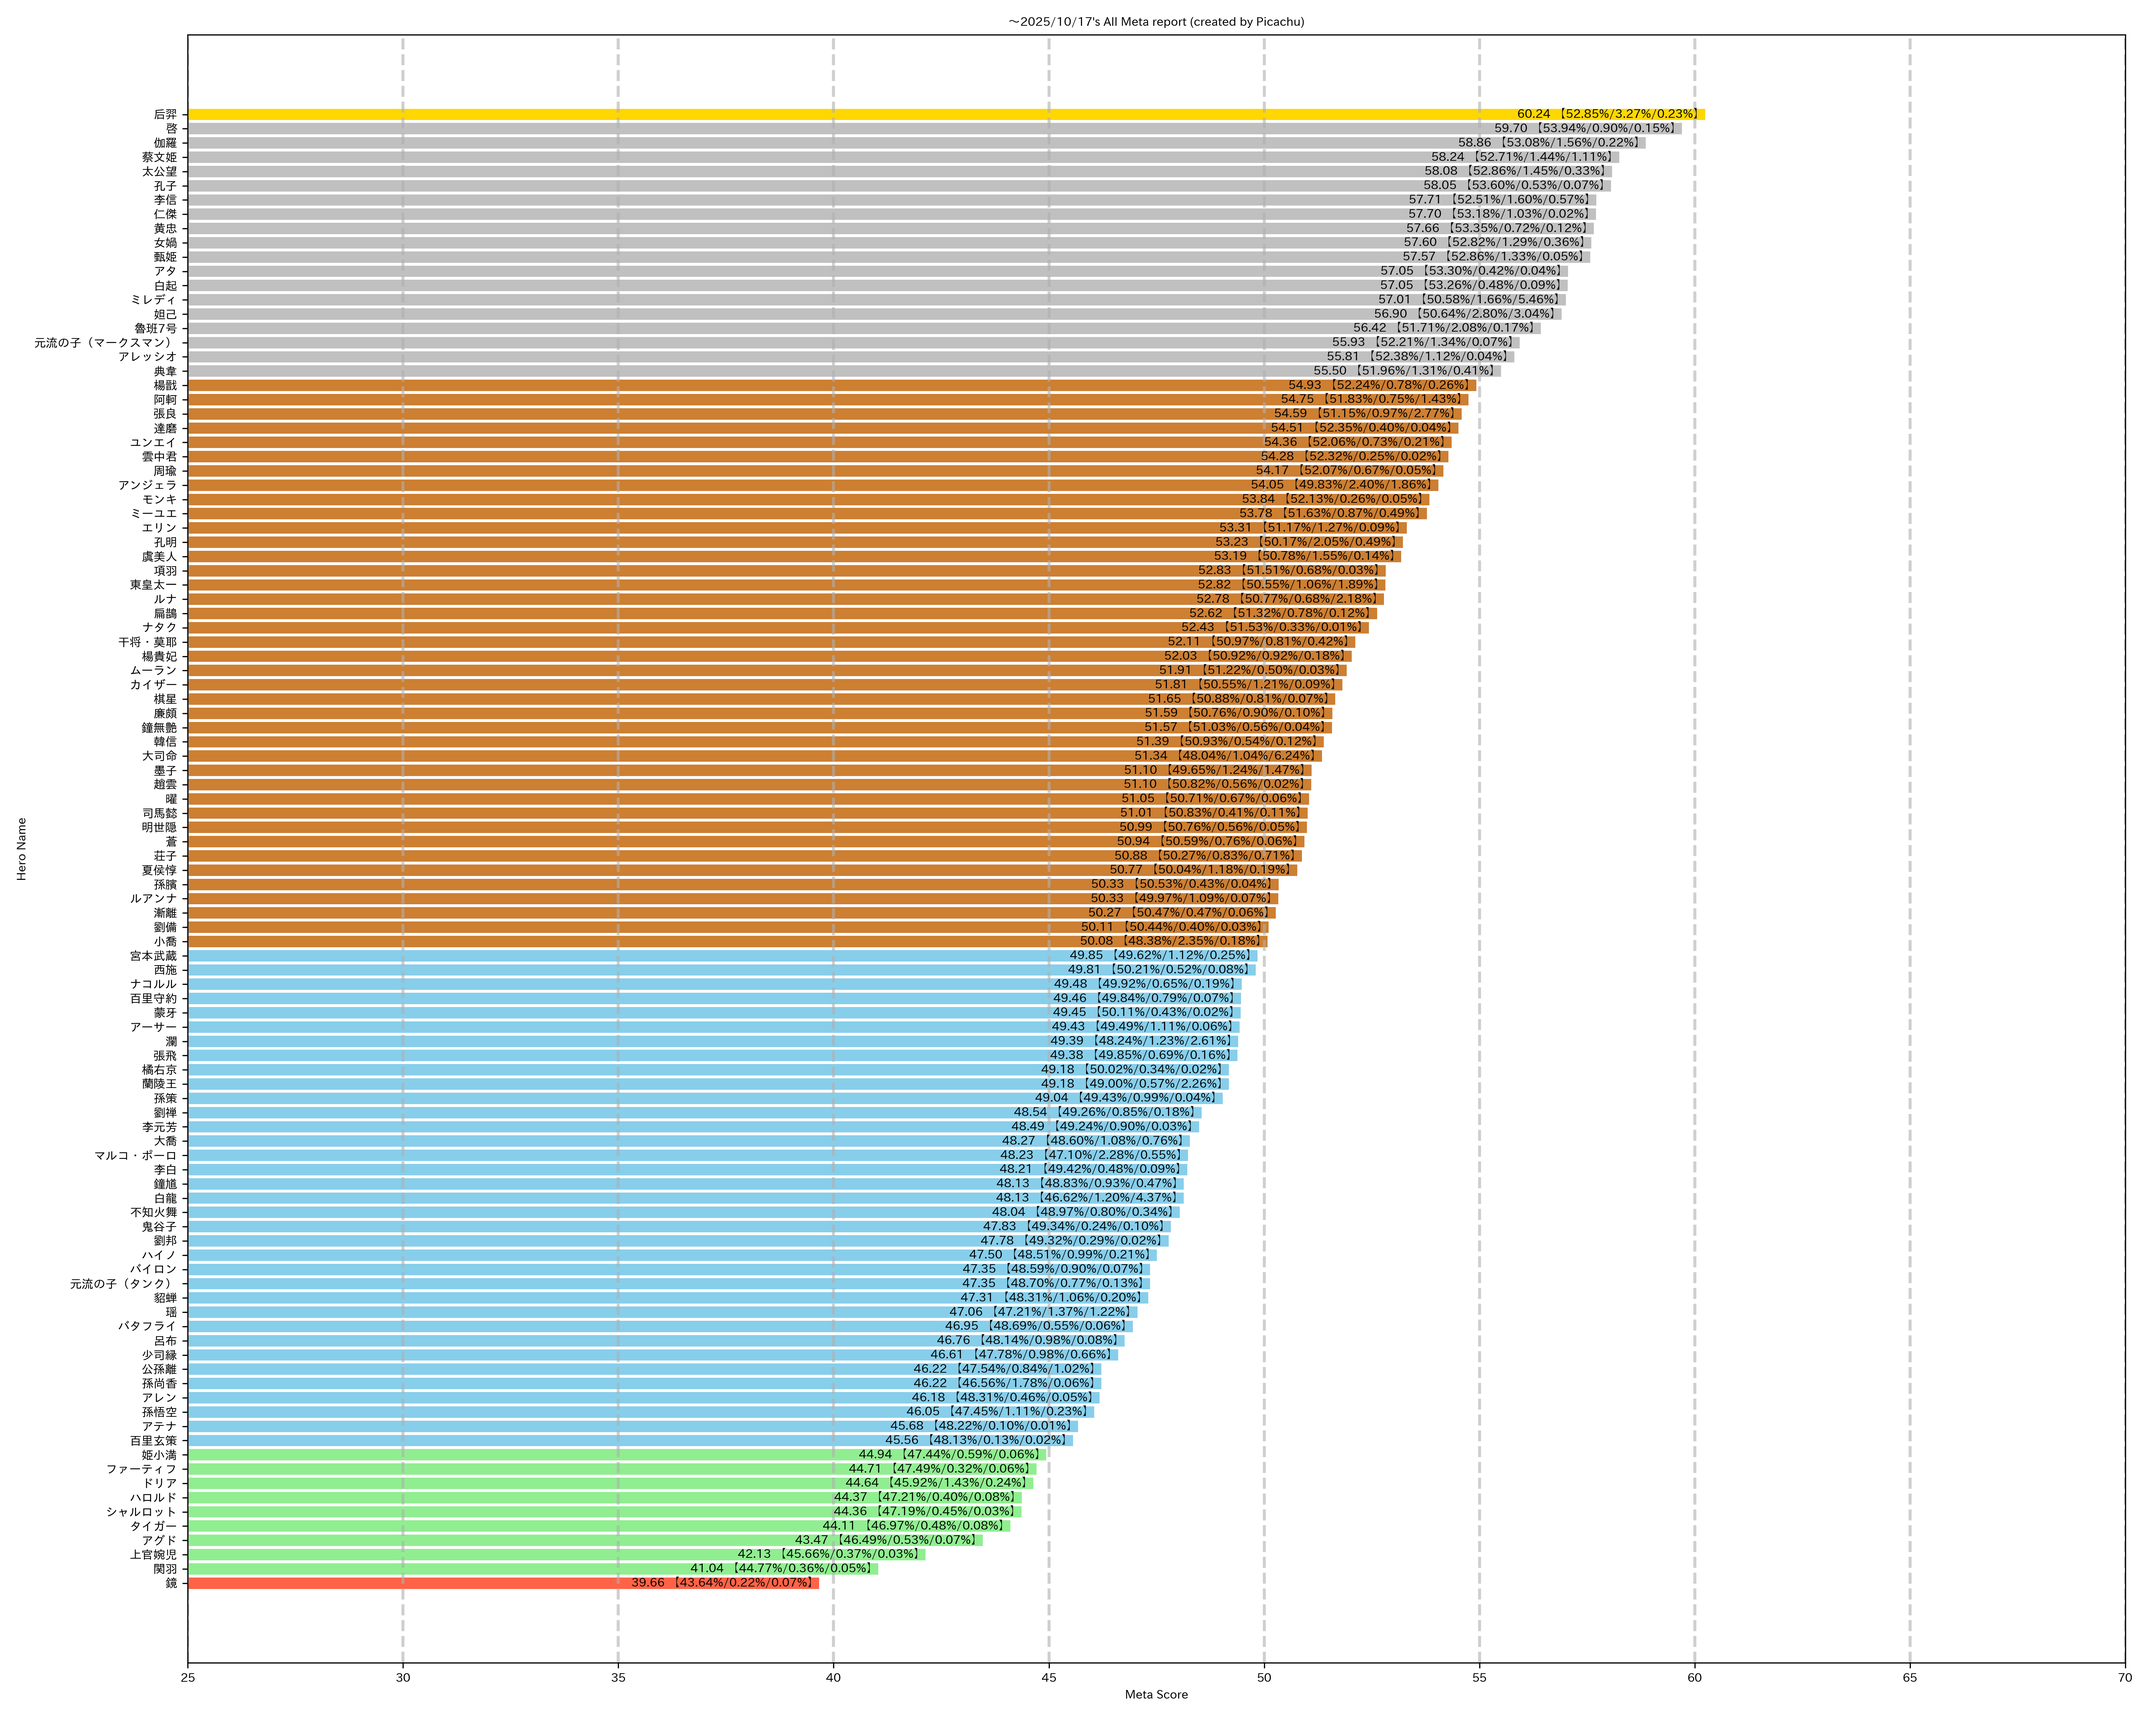
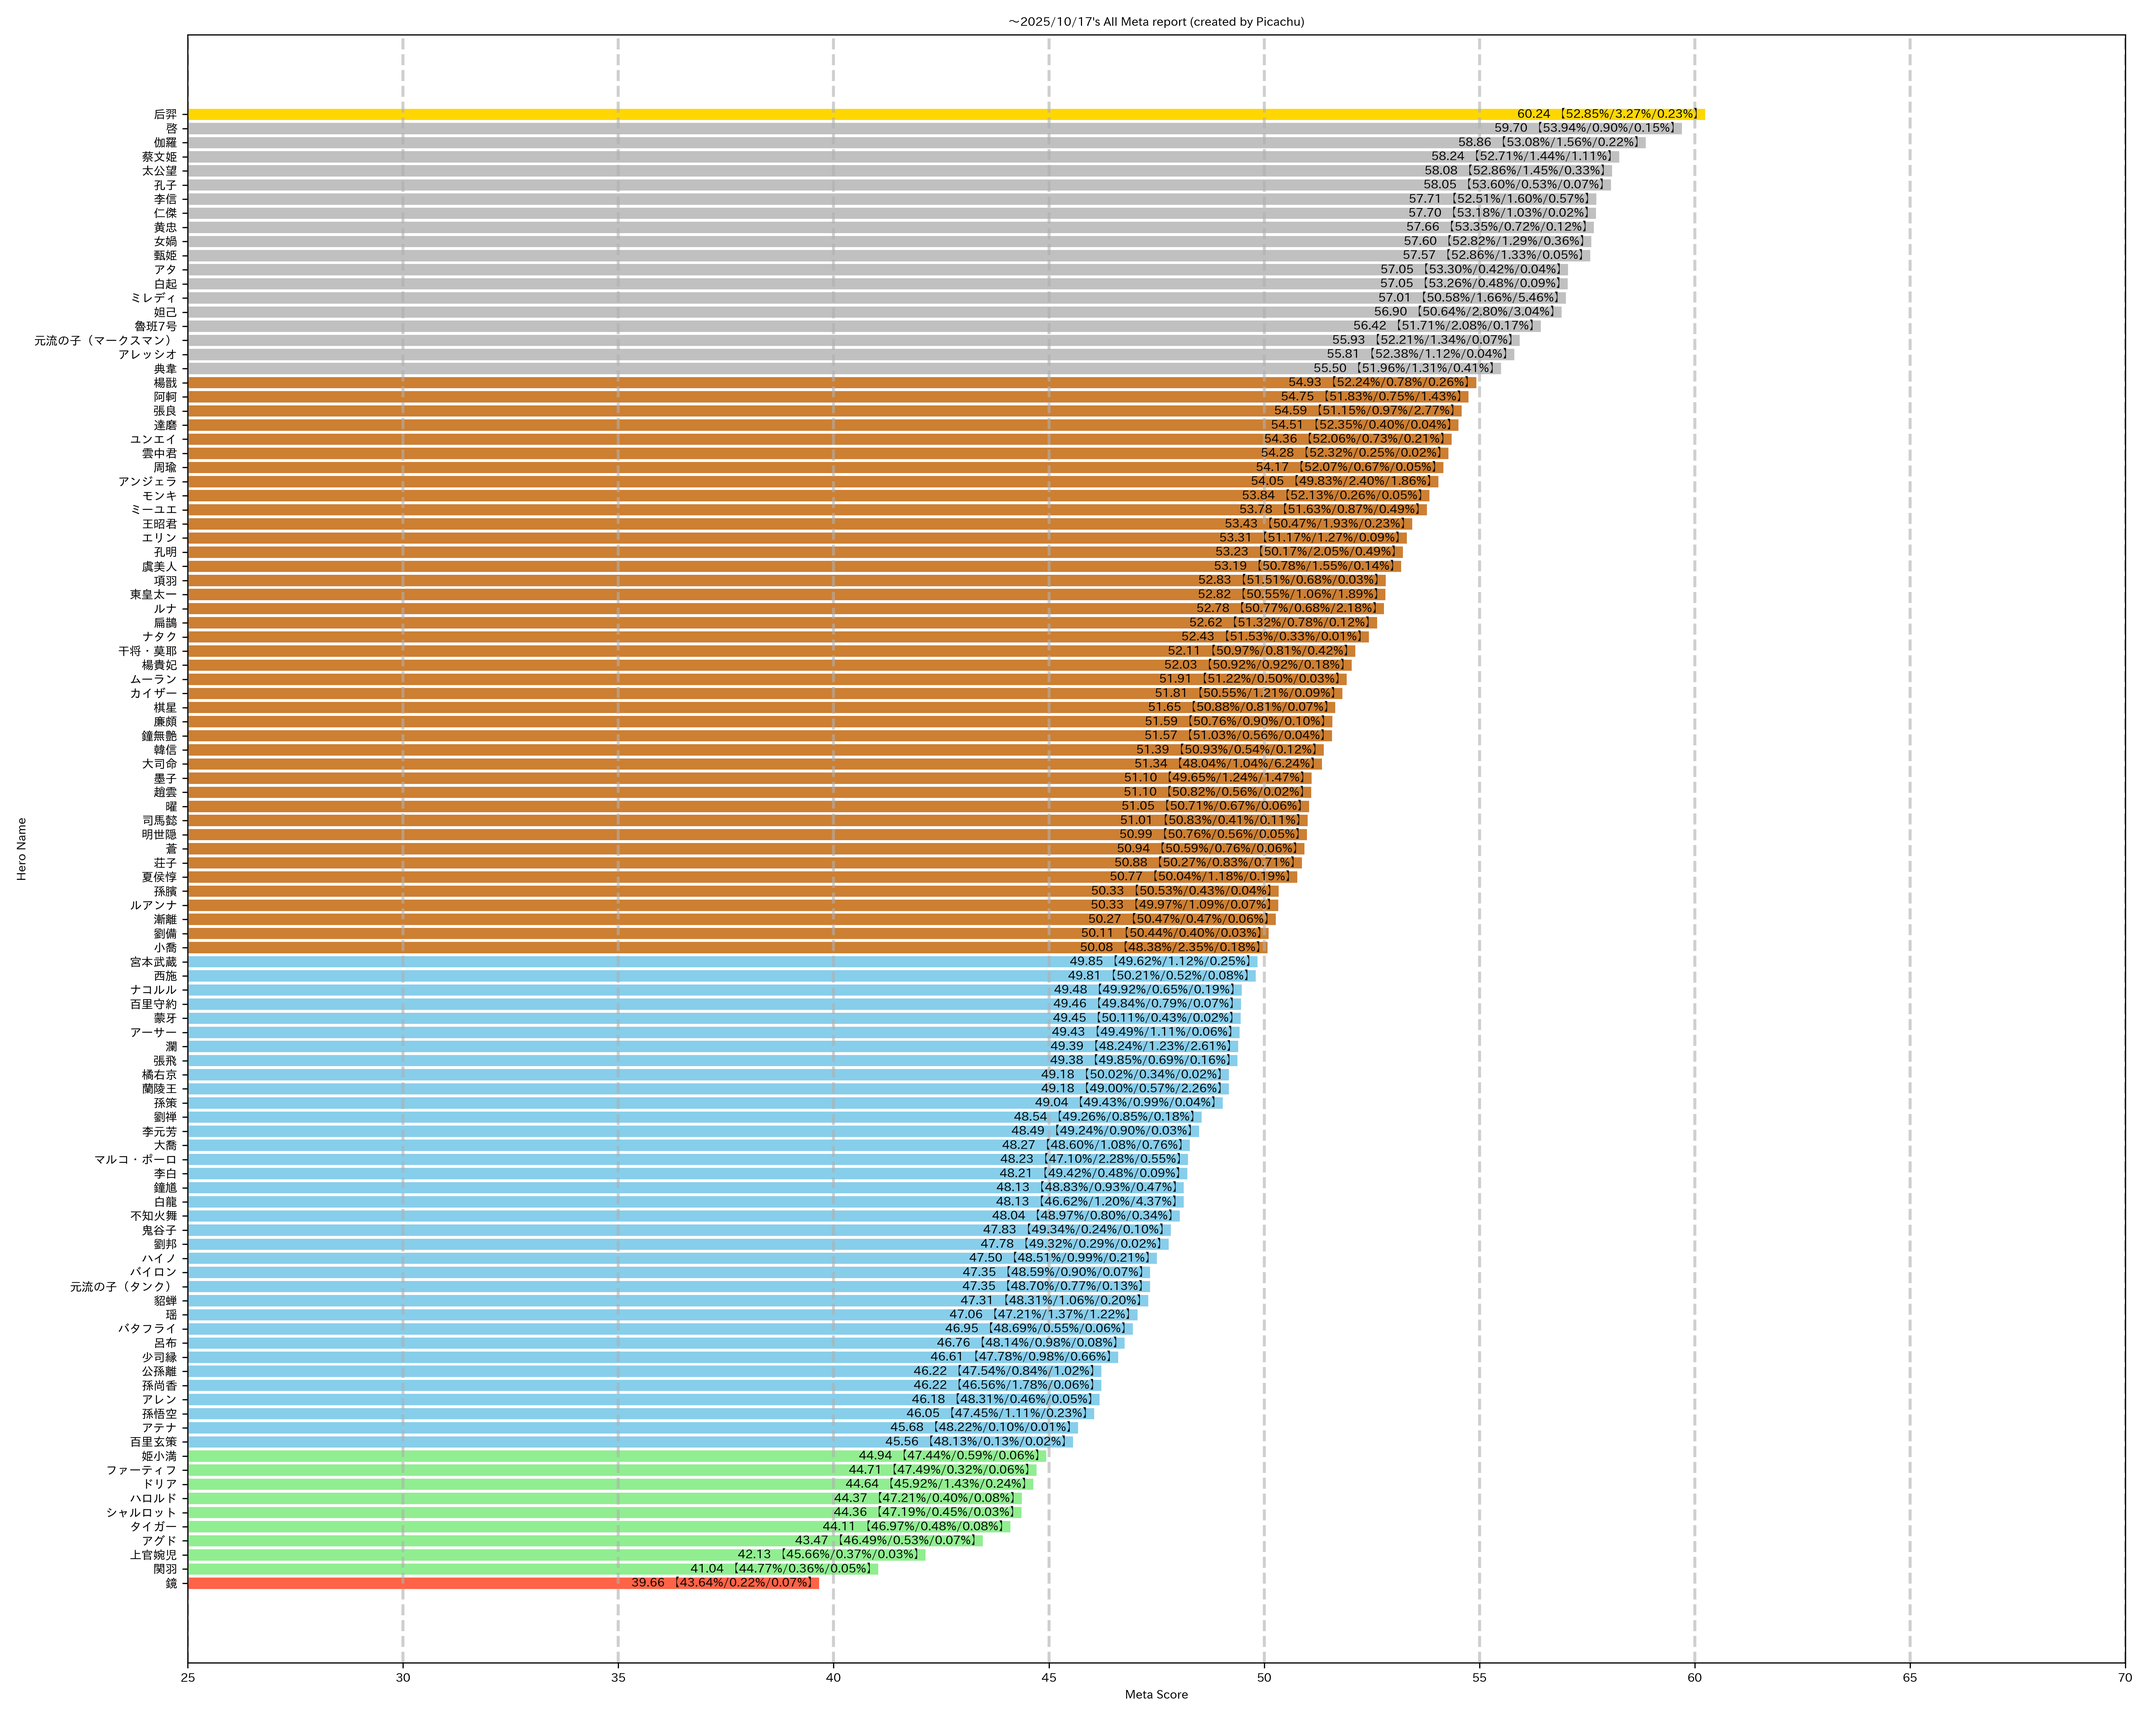
Generated HTML

Changed region(s): [[0.0623, 0.0625, 0.748, 0.9062]]

diff --git a/list_html/for_mobile/All_mb_table.html b/list_html/for_mobile/All_mb_table.html
@@ -536,6 +536,22 @@
                     
                     <tbody class="hero-block">
                         <tr class="hero-row">
+                            <td rowspan="3"><img src="../hok_pics/wangzhaojun.png" alt="王昭君" /></td>
+                            <td class="hero-name">王昭君</td>
+                        </tr>
+                        <tr class="hero-row">
+                            <td class="highlight">53.43(-2.58)</td>
+                        </tr>
+                        <tr class="hero-row">
+                            <td class="highlight">A → B</td>
+                        </tr>
+                        <tr class="hero-row">
+                            <td colspan="2" class="supplementary">【52.51%/1.06%/0.08%】→【50.47%/1.93%/0.23%】</td>
+                        </tr>
+                    </tbody>
+                    
+                    <tbody class="hero-block">
+                        <tr class="hero-row">
                             <td rowspan="3"><img src="../hok_pics/erin.png" alt="エリン" /></td>
                             <td class="hero-name">エリン</td>
                         </tr>

diff --git a/list_html/for_mobile/Mid_mb_table.html b/list_html/for_mobile/Mid_mb_table.html
@@ -200,6 +200,22 @@
                     
                     <tbody class="hero-block">
                         <tr class="hero-row">
+                            <td rowspan="3"><img src="../hok_pics/wangzhaojun.png" alt="王昭君" /></td>
+                            <td class="hero-name">王昭君</td>
+                        </tr>
+                        <tr class="hero-row">
+                            <td class="highlight">53.43(-2.58)</td>
+                        </tr>
+                        <tr class="hero-row">
+                            <td class="highlight">A → B</td>
+                        </tr>
+                        <tr class="hero-row">
+                            <td colspan="2" class="supplementary">【52.51%/1.06%/0.08%】→【50.47%/1.93%/0.23%】</td>
+                        </tr>
+                    </tbody>
+                    
+                    <tbody class="hero-block">
+                        <tr class="hero-row">
                             <td rowspan="3"><img src="../hok_pics/kongming.png" alt="孔明" /></td>
                             <td class="hero-name">孔明</td>
                         </tr>

diff --git a/list_html/for_pc/All_pc_table.html b/list_html/for_pc/All_pc_table.html
@@ -308,6 +308,14 @@
                     </tr>
                     
                     <tr class="hero-row">
+                        <td><img src="../hok_pics/wangzhaojun.png" alt="王昭君" /></td>
+                        <td class="hero-name">王昭君</td>
+                        <td class="highlight">53.43(-2.58)</td>
+                        <td class="highlight">A → B</td>
+                        <td class="supplementary">【52.51%/1.06%/0.08%】→【50.47%/1.93%/0.23%】</td>
+                    </tr>
+                    
+                    <tr class="hero-row">
                         <td><img src="../hok_pics/erin.png" alt="エリン" /></td>
                         <td class="hero-name">エリン</td>
                         <td class="highlight">53.31(+3.11)</td>

diff --git a/list_html/for_pc/Mid_pc_table.html b/list_html/for_pc/Mid_pc_table.html
@@ -140,6 +140,14 @@
                     </tr>
                     
                     <tr class="hero-row">
+                        <td><img src="../hok_pics/wangzhaojun.png" alt="王昭君" /></td>
+                        <td class="hero-name">王昭君</td>
+                        <td class="highlight">53.43(-2.58)</td>
+                        <td class="highlight">A → B</td>
+                        <td class="supplementary">【52.51%/1.06%/0.08%】→【50.47%/1.93%/0.23%】</td>
+                    </tr>
+                    
+                    <tr class="hero-row">
                         <td><img src="../hok_pics/kongming.png" alt="孔明" /></td>
                         <td class="hero-name">孔明</td>
                         <td class="highlight">53.23(+3.87)</td>
